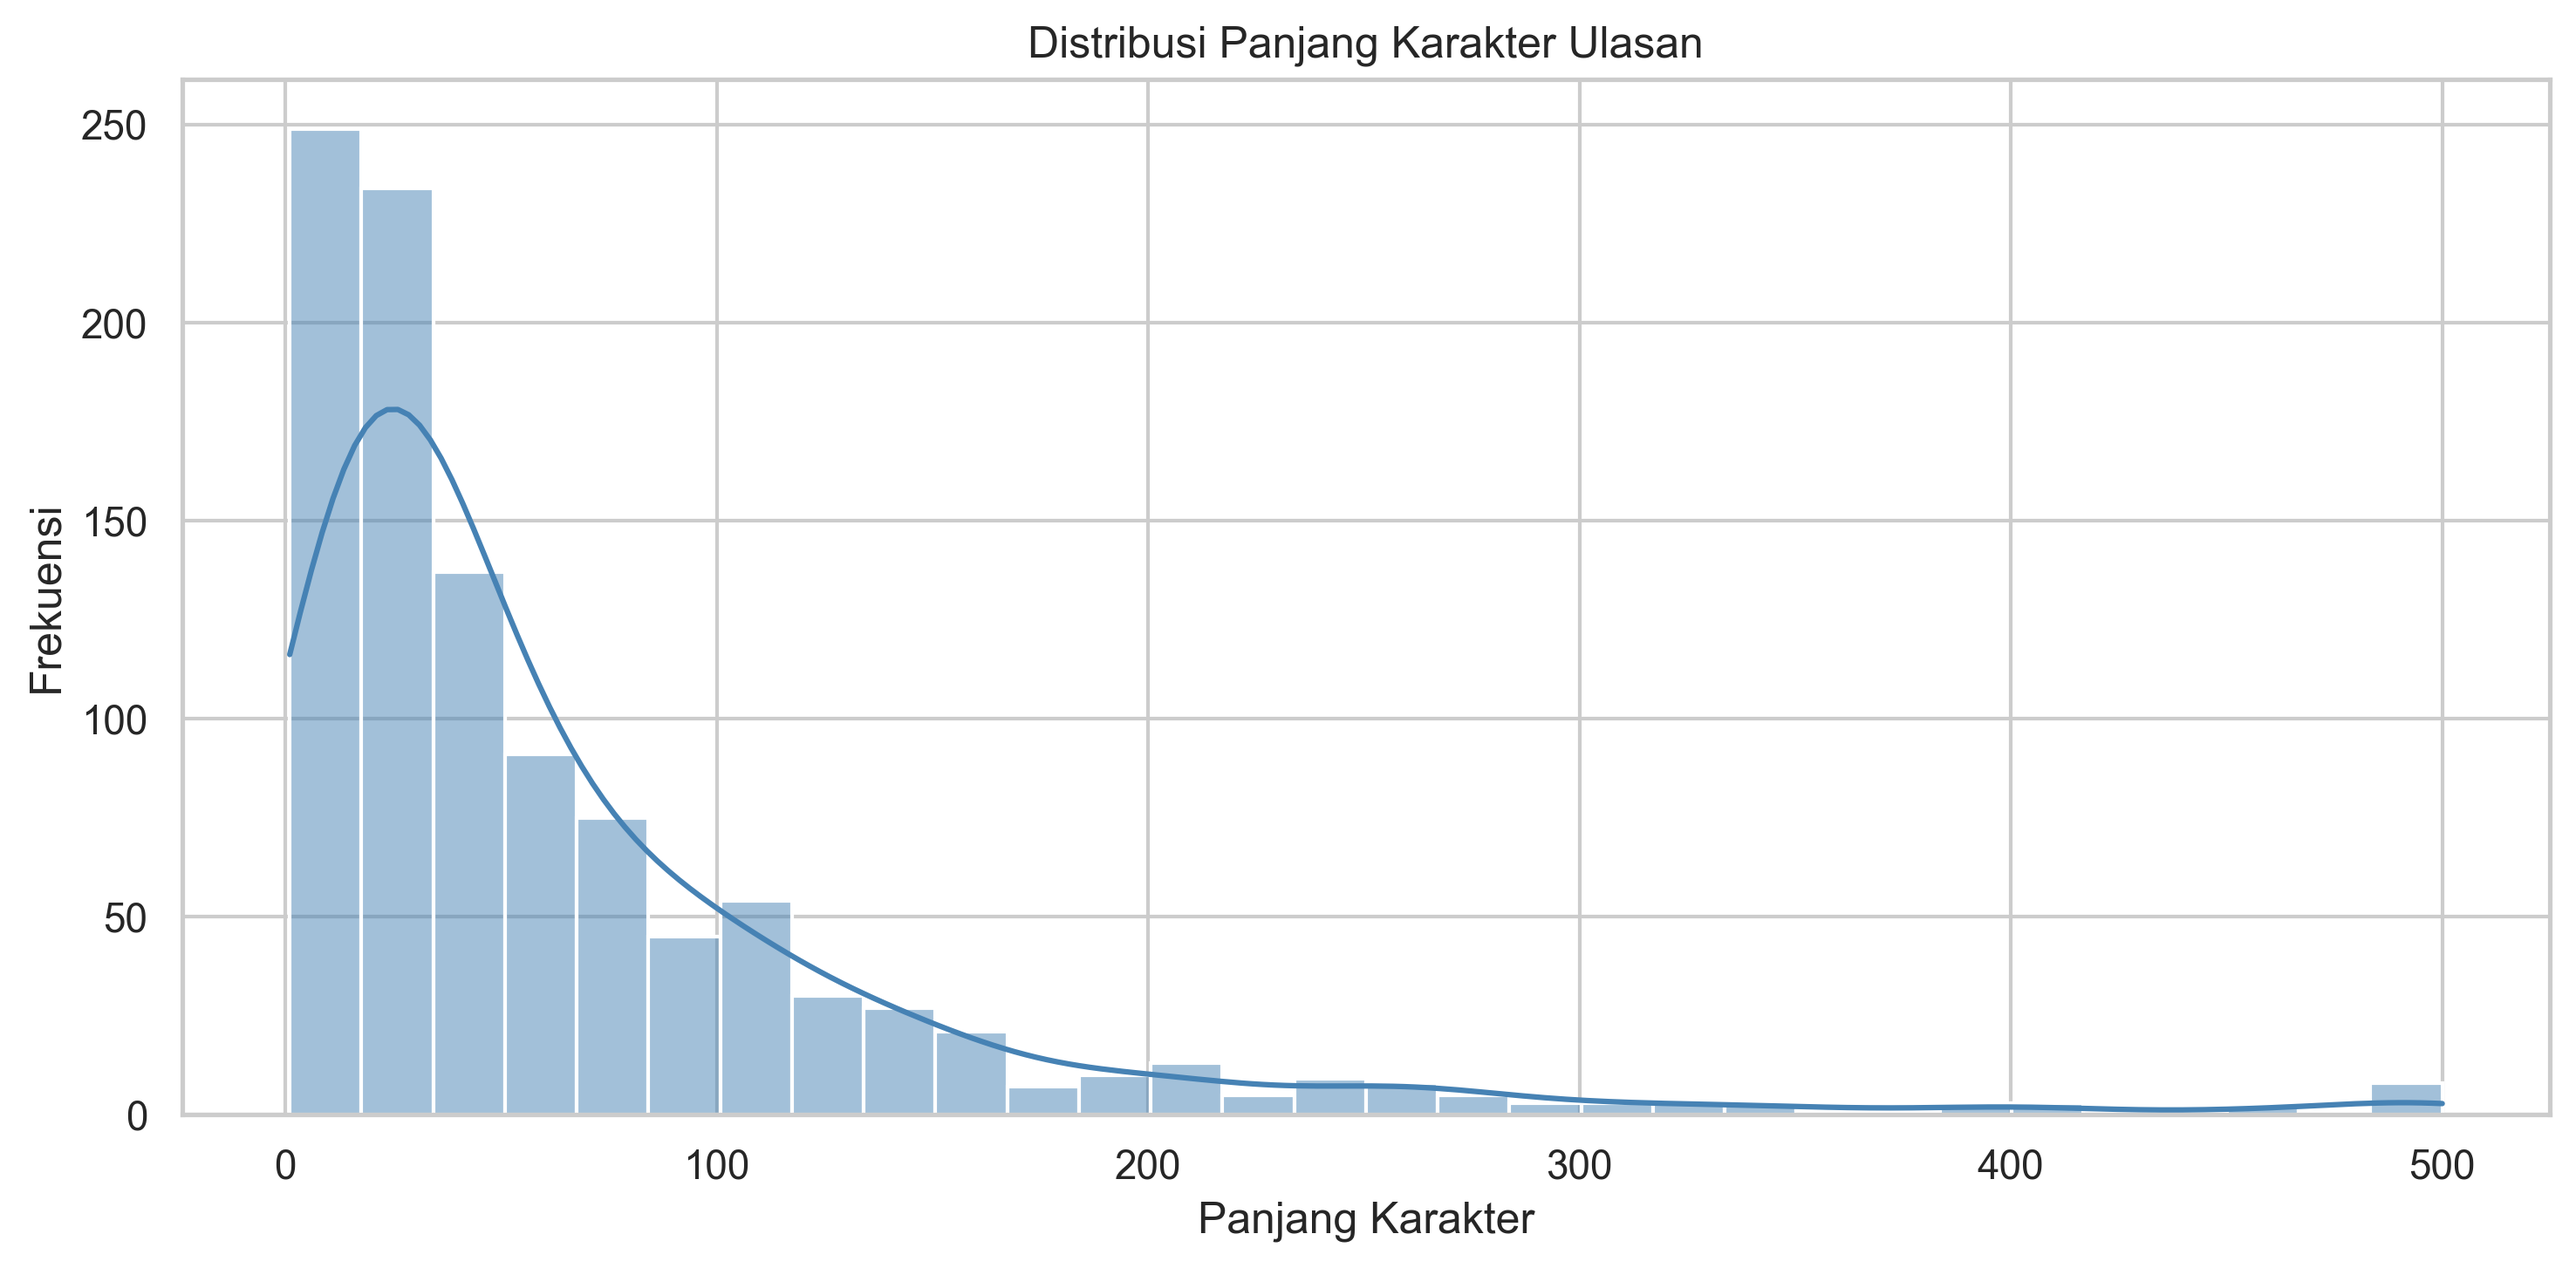
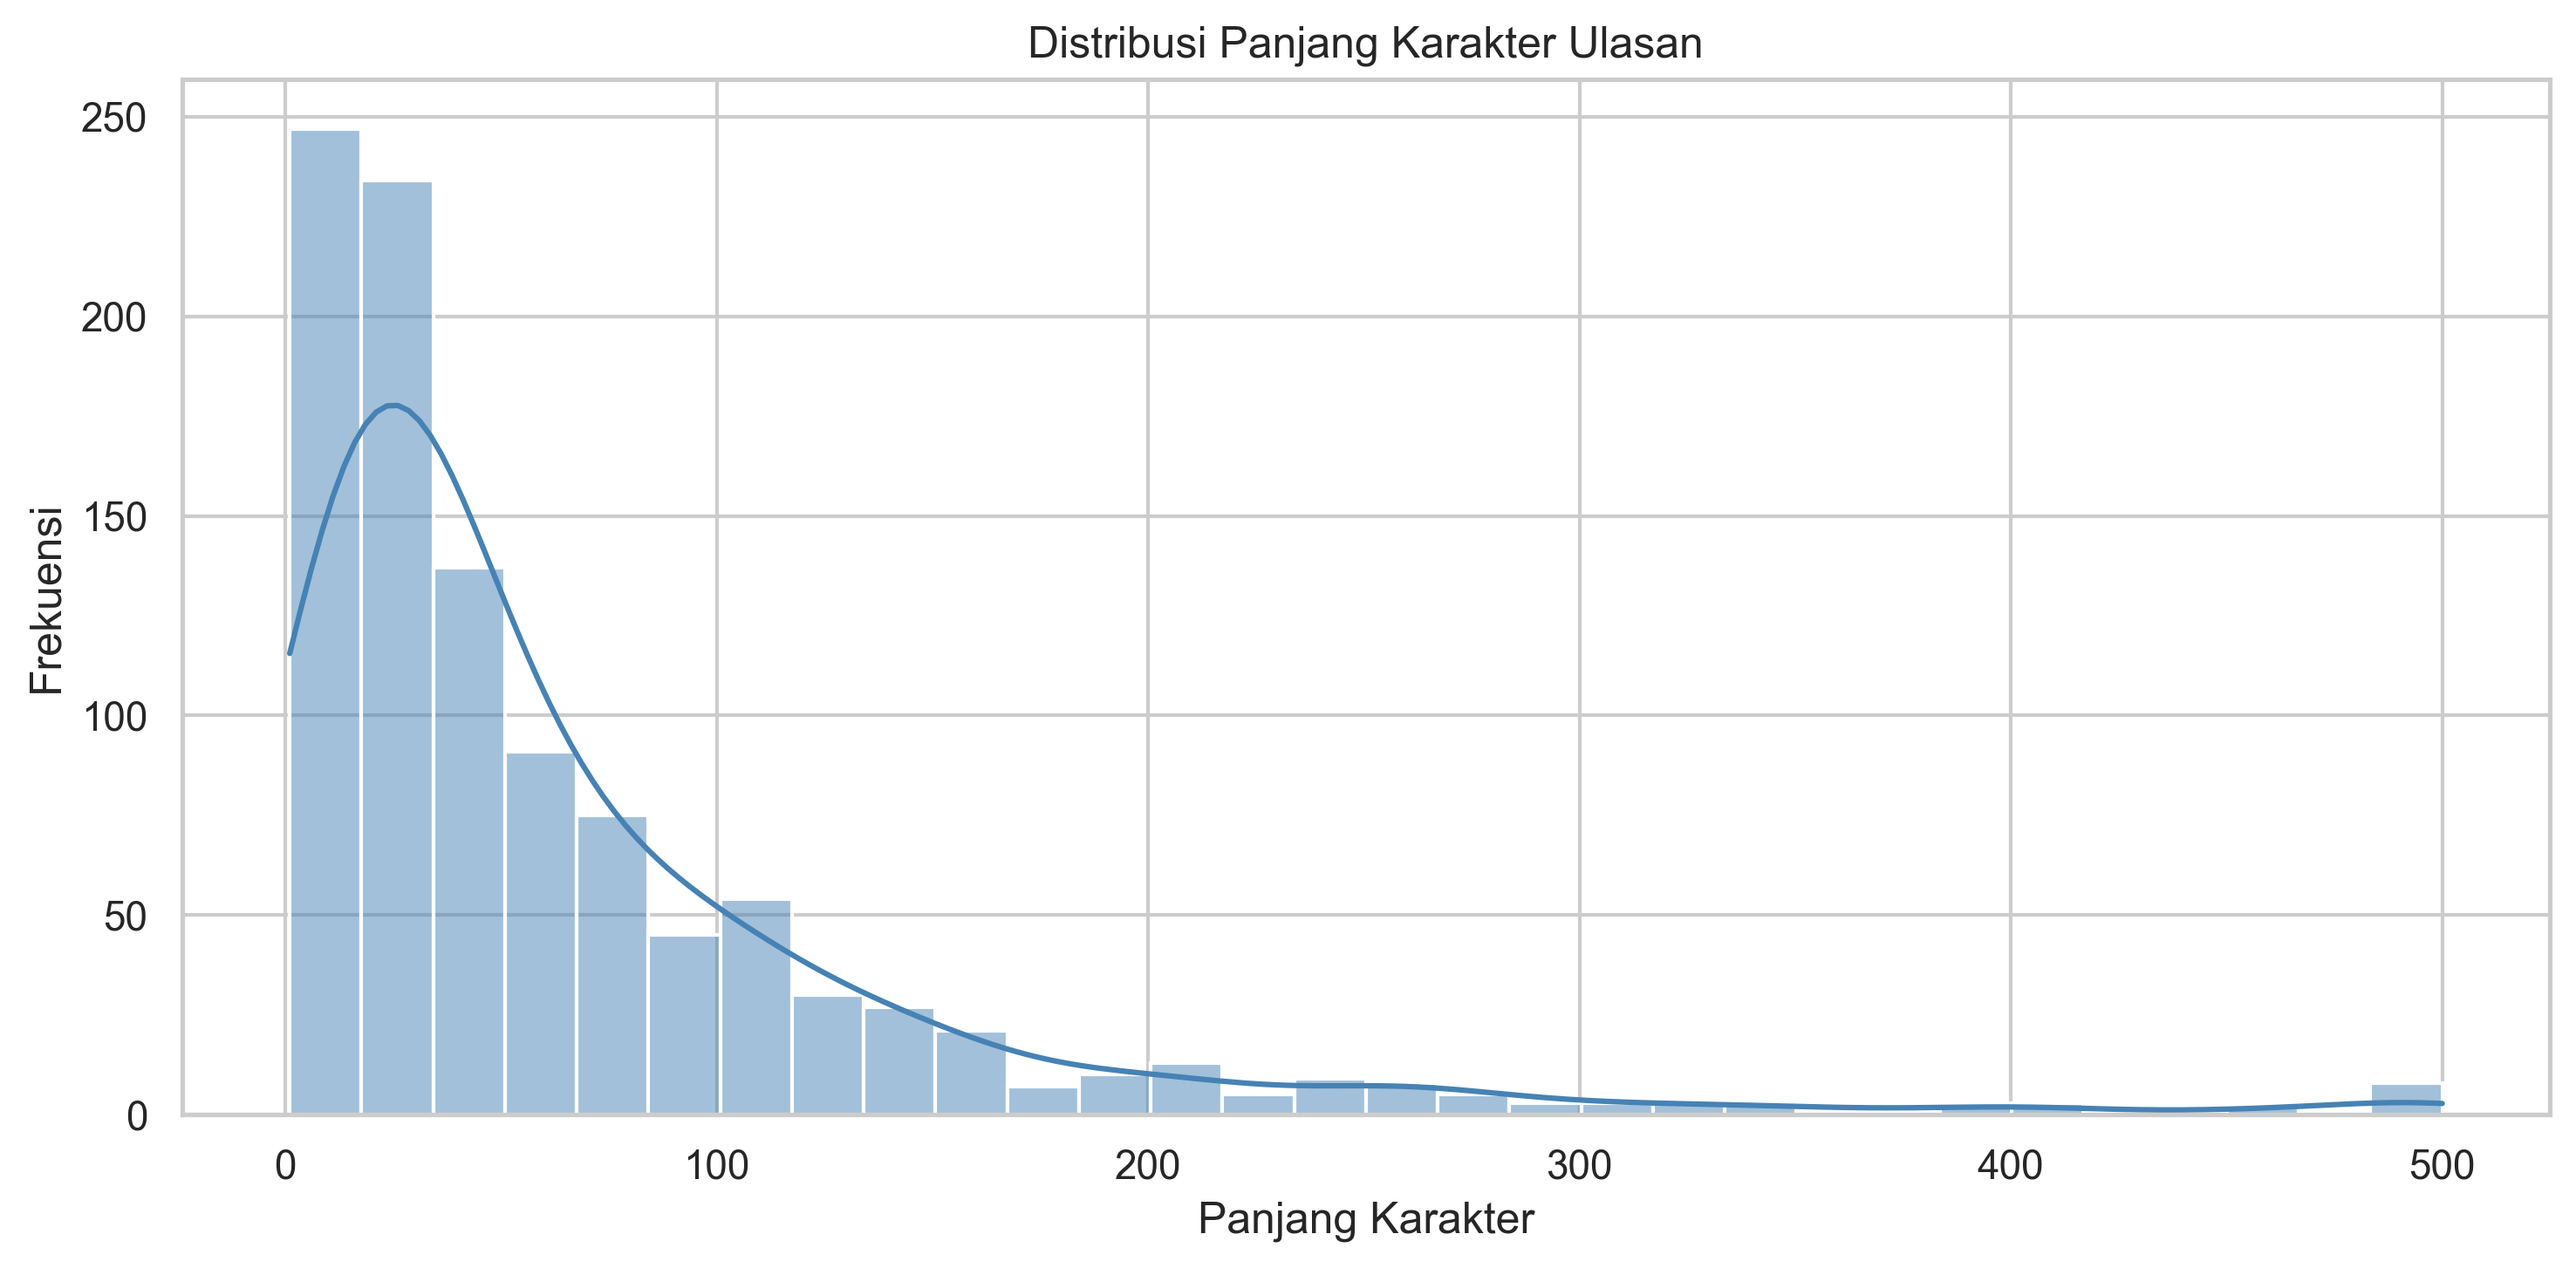
Fix invalid NLTK punkt_tab download in train_model.py

diff --git a/train_model.py b/train_model.py
@@ -8,10 +8,6 @@ from typing import Dict, List
 
 import nltk
 
-nltk.download('punkt')
-nltk.download('punkt_tab')
-nltk.download('stopwords')
-
 import joblib
 import matplotlib.pyplot as plt
 import numpy as np
